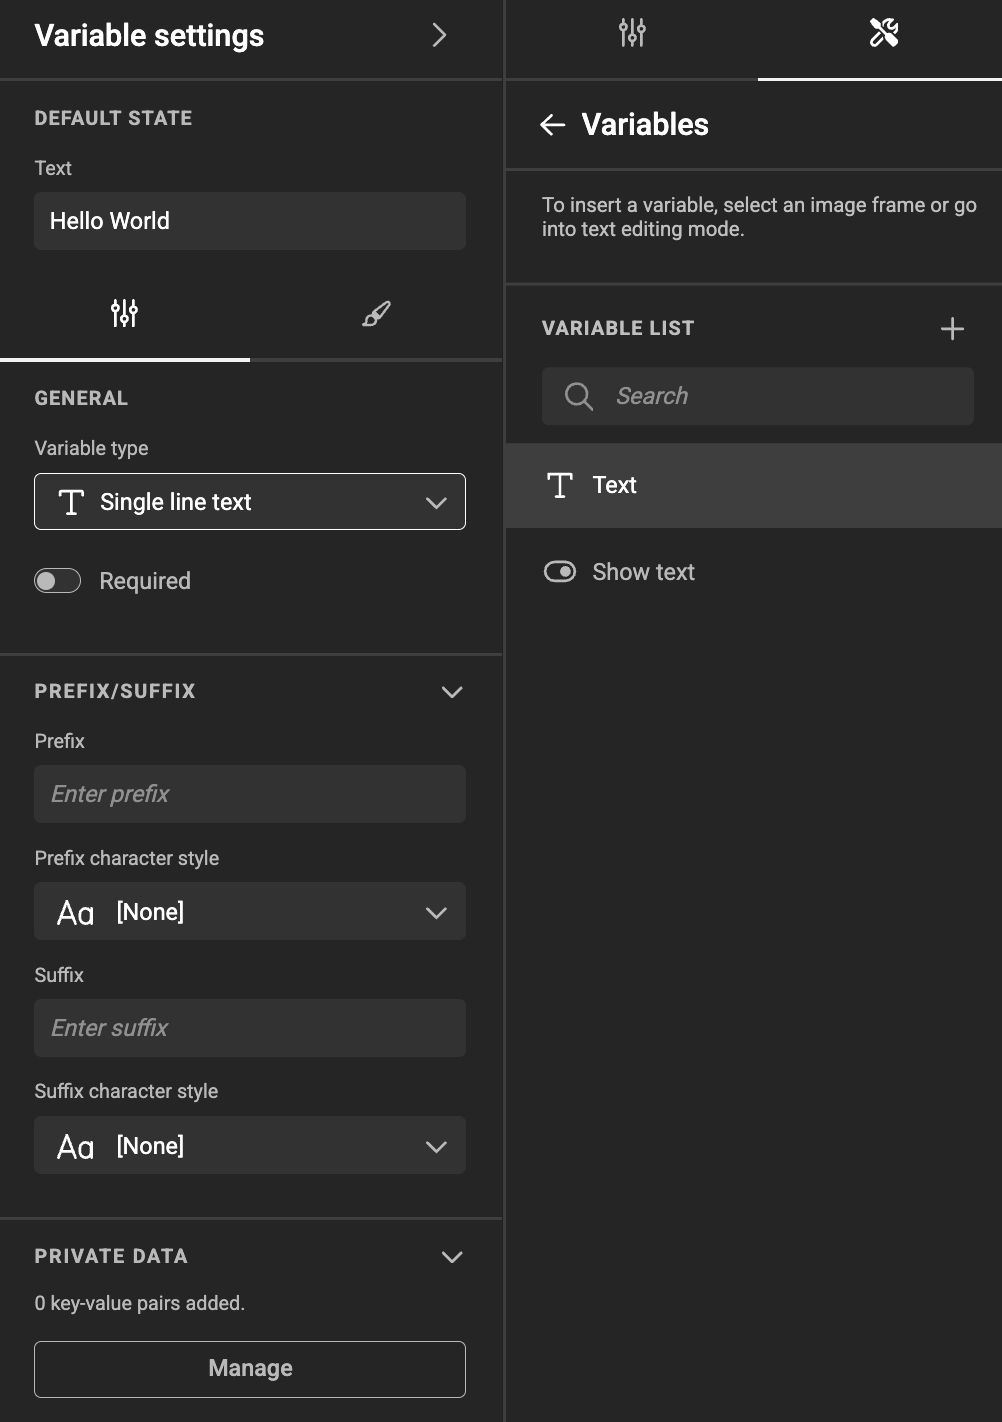
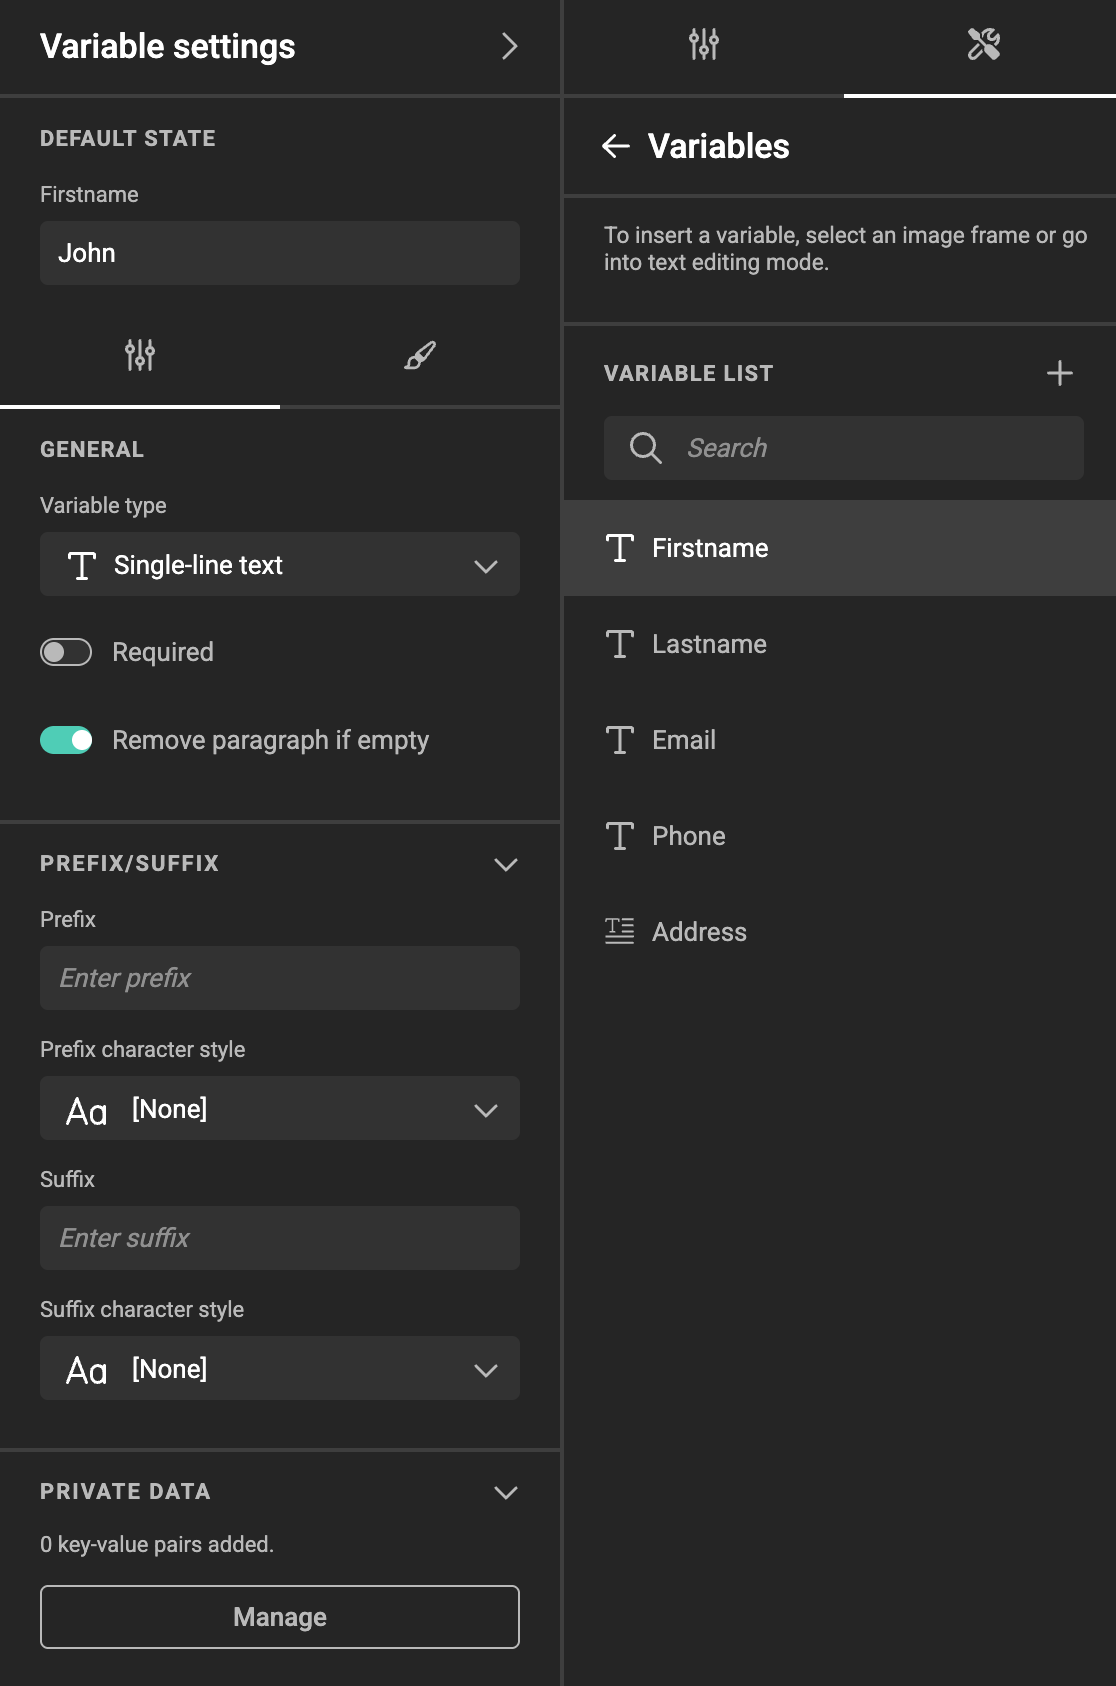
remove paragraph if empty

diff --git a/docs/GraFx-Studio/guides/template-variables/define/index.md b/docs/GraFx-Studio/guides/template-variables/define/index.md
@@ -124,6 +124,10 @@ A placeholder that can hold "True" or "False".
 
 A Placeholder to hold a numeric value. Different than a text variable, you can set specific elements related to numbers.
 
+### Date
+
+A Placeholder to hold a date value. Different than a text variable, you can [set specific elements](../date/) related to dates.
+
 ## Variable settings
 
 ### Variable name
@@ -149,6 +153,10 @@ The default value your template variable will have.
 
 - Type: See [types](#types) above
 - Required: Disabled by default
+- Remove paragraph if empty: Disabled by default  
+Check to remove the full paragraph this variable is used on.  
+Available on (Single-line text, Multi-line text, Single-select list, Date)
+![screenshot-full](removeparagraph.gif)
 - [Private data](/GraFx-Studio/concepts/private-data/?h=private)  
 A set of key-value pairs to assist you with automation.
 

diff --git a/docs/release-notes/releaseposts/2025080701.md b/docs/release-notes/releaseposts/2025080701.md
@@ -1,0 +1,21 @@
+---
+draft: false
+date: 2025-08-07
+---
+
+# 🎉 GraFx Studio Release Notes
+
+![rn_icon](/assets/icon-GraFx-Studio.svg) <span class="version-label">v1.27</span>
+
+## ✨ What’s New
+
+- Remove paragraph, when variable is empty  
+
+![screenshot-full](/release-notes/releasenotesassets/removeparagraph.gif)
+
+In automation, you can run into empty data points. Now you can specify to remove the paragraph, if a variable value is empty.
+
+## 🛠 What's Improved
+
+- Bug fixes
+- Speed improvements
